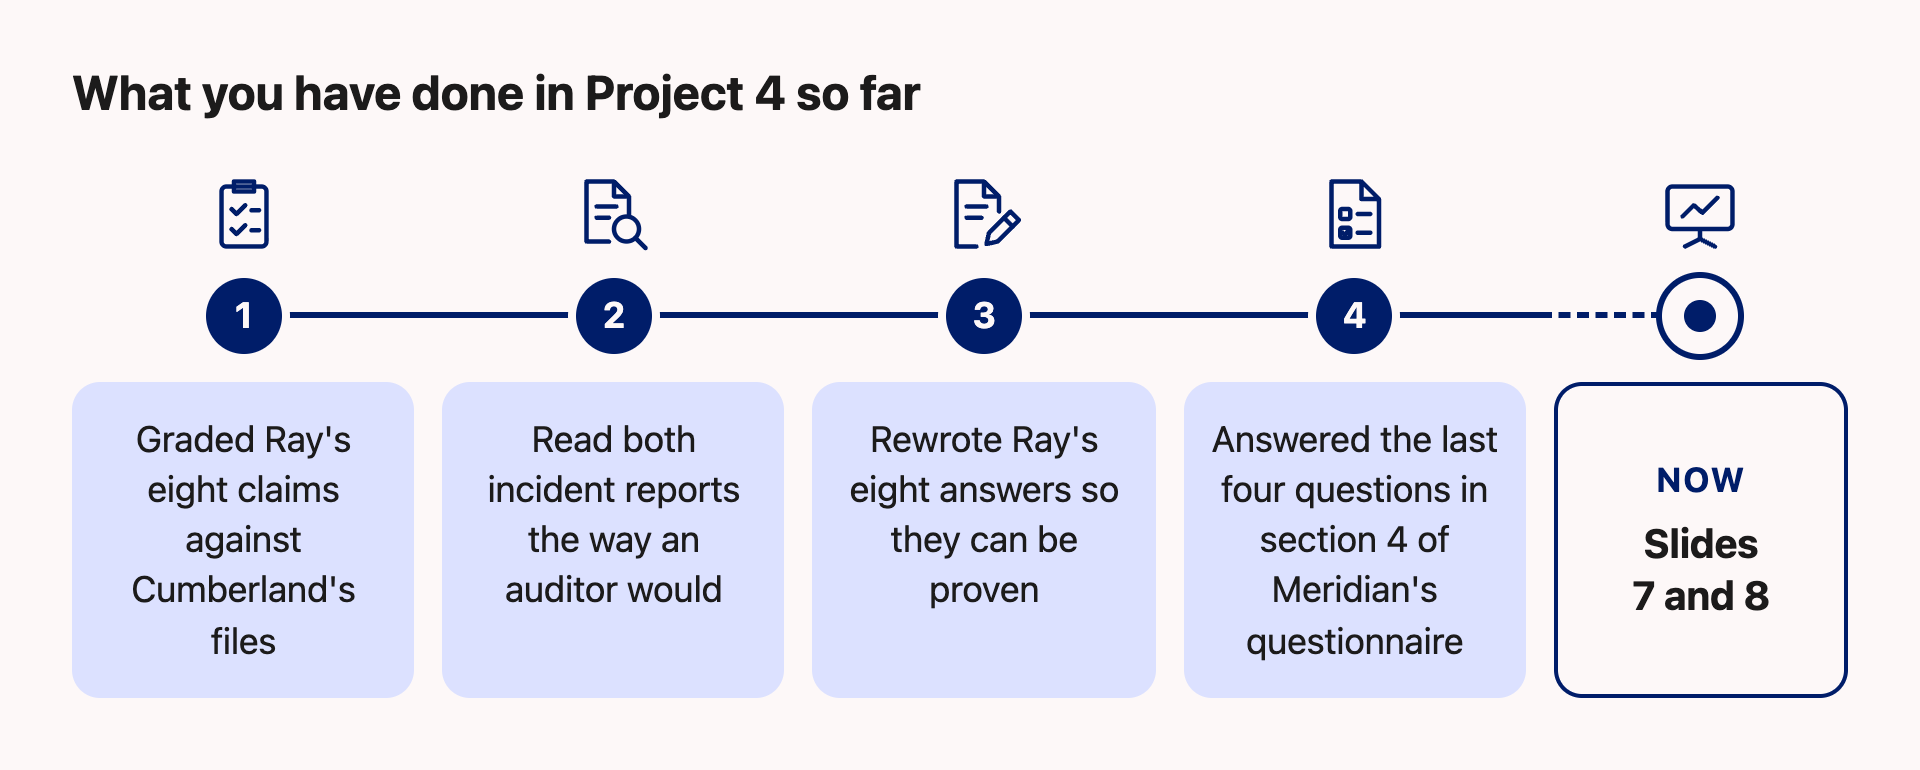
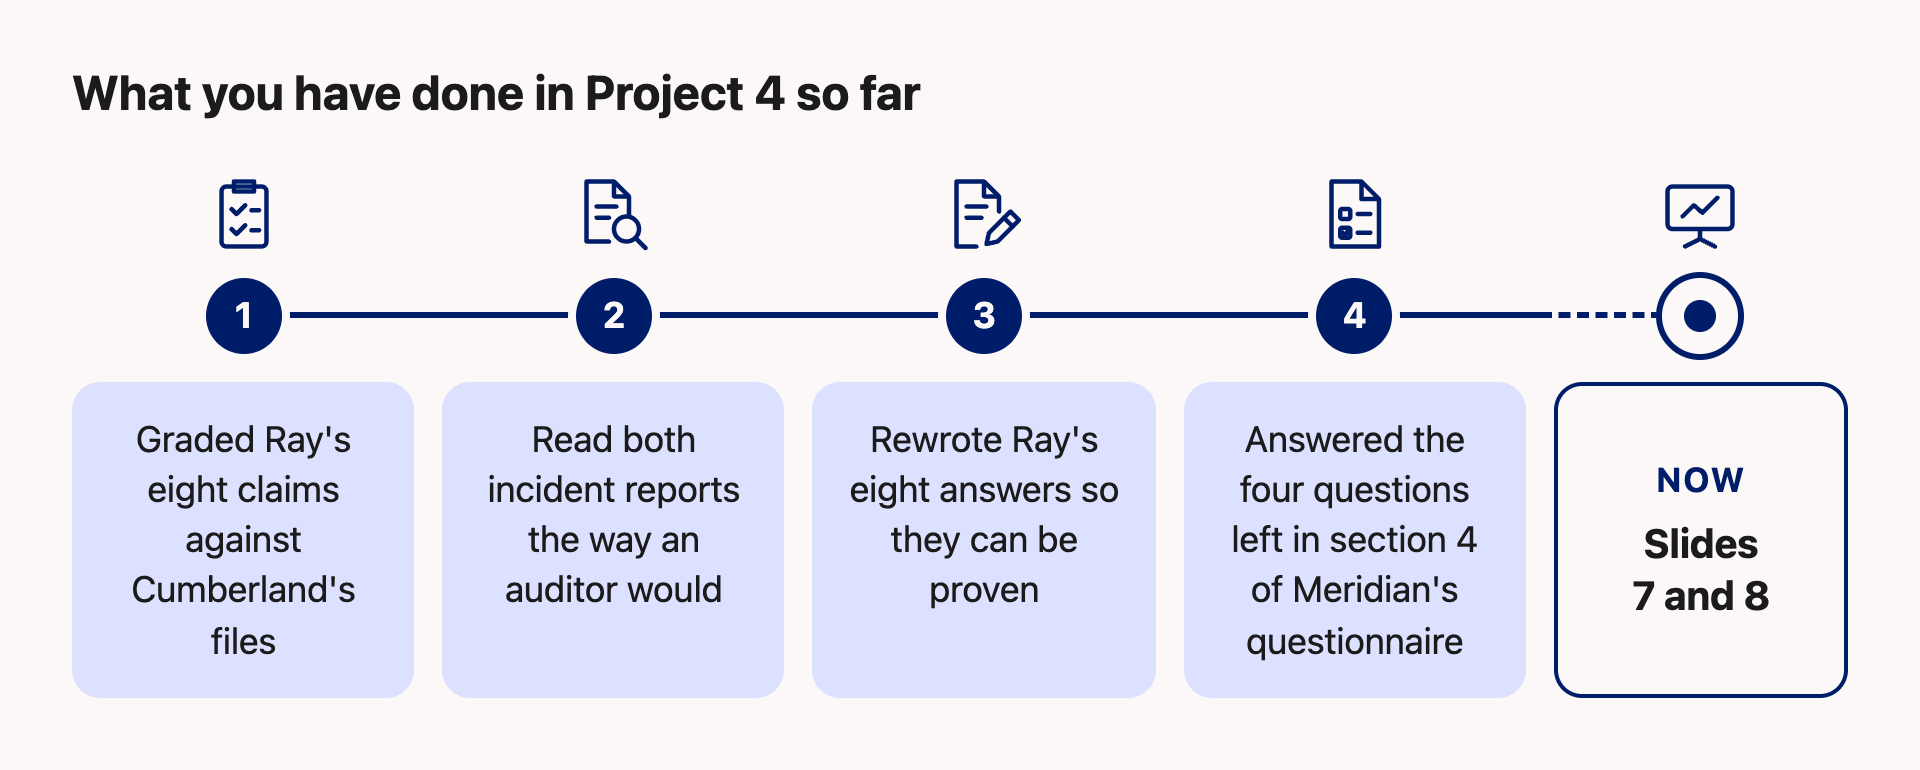
vCISO P4 m13: timeline milestone 4 wording

diff --git a/vciso-p4-m13-project-4-so-far.html b/vciso-p4-m13-project-4-so-far.html
@@ -51,7 +51,7 @@
     <div class="col">
       <svg class="i" viewBox="0 0 32 32" aria-hidden="true"><path d="M7 3h12l7 7v19H7z"/><path d="M19 3v7h7"/><rect x="10.5" y="14" width="4" height="4" rx=".8"/><path d="M17.5 16h5"/><rect x="10.5" y="21.5" width="4" height="4" rx=".8"/><path d="M11.3 23.4l1 1 1.7-2"/><path d="M17.5 23.5h5"/></svg>
       <div class="rail"><div class="num">4</div></div>
-      <div class="card">Answered the last four questions in section 4 of Meridian's questionnaire</div>
+      <div class="card">Answered the four questions left in section 4 of Meridian's questionnaire</div>
     </div>
     <div class="col now">
       <svg class="i" viewBox="0 0 32 32" aria-hidden="true"><rect x="3" y="5" width="26" height="17" rx="2"/><path d="M16 22v4M10 29l6-3 6 3"/><path d="M9 17l4.5-4.5 3.5 3 6-6"/></svg>
